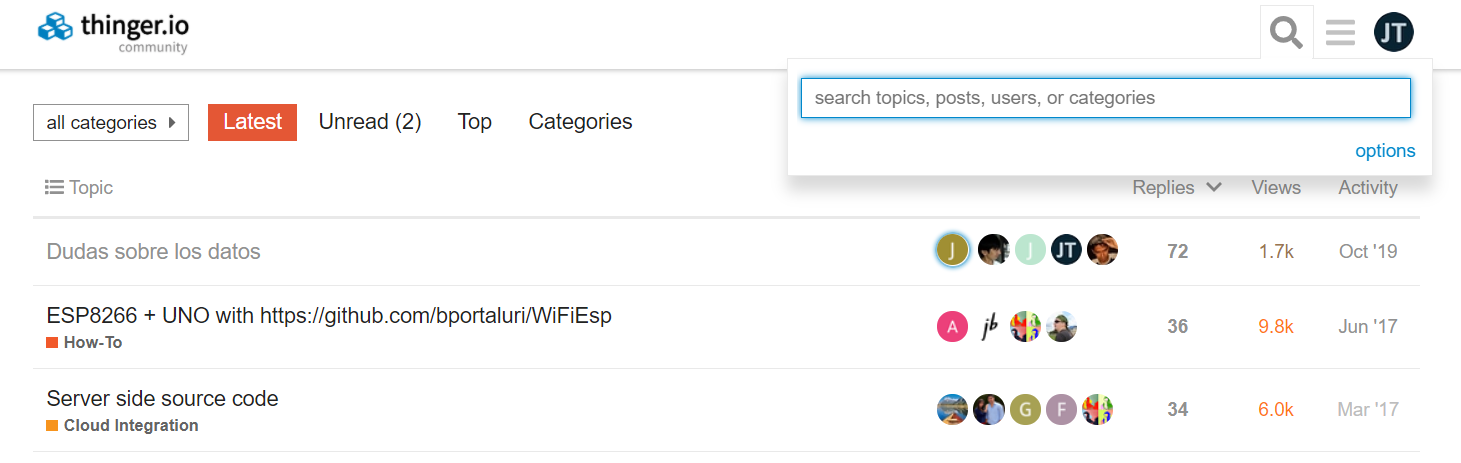
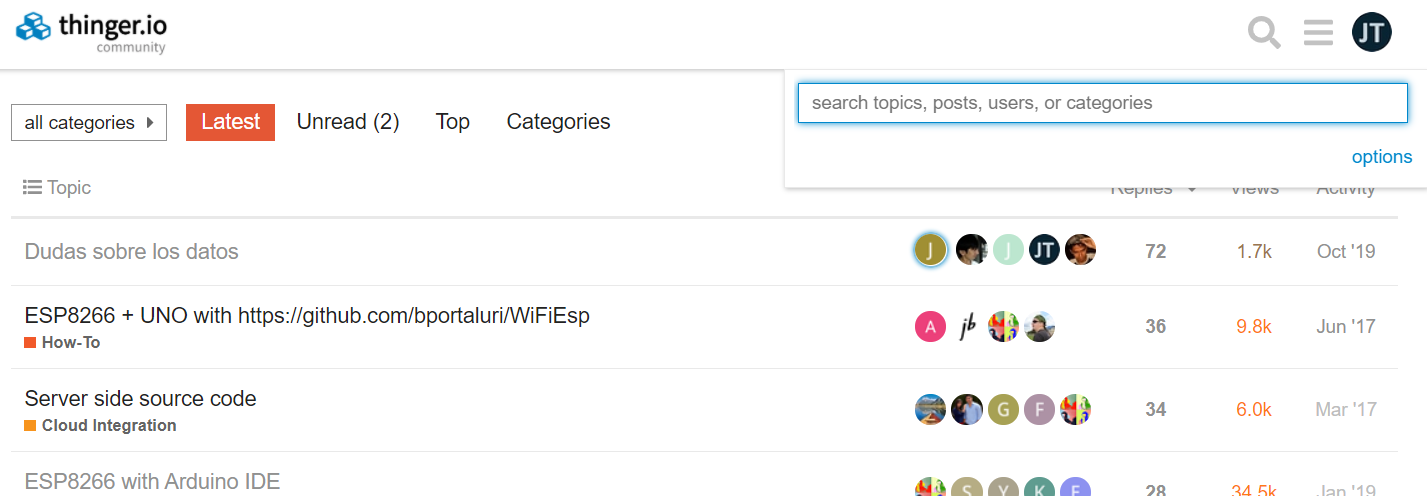
GitBook: [gh-pages] 42 pages and 2 assets modified

diff --git a/quick-sart/coding/good-practices-and-troubleshooting.md b/quick-sart/coding/good-practices-and-troubleshooting.md
@@ -9,7 +9,7 @@ description: >-
 
 ## Coding Good Practices
 
-* First of all, read the platform documentation, it is strongly recommended to use the example codes provided there when creating new firmwares.
+* First of all, read the platform documentation, it is strongly recommended to use the example codes provided there when creating new firmware.
 * Thinger resources definition code must be introduced in the `setup()` function or any other function that is executed just one time in the program source code.
 * `thing.handle()` instruction must be included in the `loop()` function or in the main recurrent execution function of the program source code.
 * Avoid using `delay()` or any other locking instructions when coding for IoT purposes. Using it will make your device losing the connection with the network, which will result in continuous reconnection processes. If the program requires timing functionalities, it is possible to use non-locking structures for example: 
@@ -21,8 +21,8 @@ if(millis()%5000==0){
 }
 ```
 
-* If an specific routine requires several time to be executed, including and additional `thing.handle()` instruction could be helpful to guarantee the connection. 
-* Avoid polling data. Thinger.io implements a resources subscription paradigm that allows the server taking the control of when does the devices send data, according a user defined sampling interval. However, there are some instructions such as `thing.call_endpoint` and `thing.write_bucket`, that has been implemented to send  asynchronous communications to the server. It is important to be careful when using these instructions in a non-controlled way or create polling situations that will decrease the efficiency of the infrastructure. Next example code shows how to properly call to an asynchronous call just when an event is detected by the device code:
+* If a specific routine requires several time to be executed, including and additional `thing.handle()` instruction could be helpful to guarantee the connection. 
+* Avoid polling data. Thinger.io implements a resources subscription paradigm that allows the server to take control of when does the devices send data, according to a user-defined sampling interval. However, there are some instructions such as `thing.call_endpoint` and `thing.write_bucket`, that has been implemented to send asynchronous communications to the server. It is important to be careful when using these instructions in a non-controlled way or create polling situations that will decrease the efficiency of the infrastructure. Next example code shows how to properly call to an asynchronous call just when an event is detected by the device code:
 
 ```text
 void loop(){
@@ -42,7 +42,7 @@ void loop(){
 ```
 
 * Use the **debug** mode when testing and prototyping to identify connection problems \(shee troubleshooting guidelines\)
-* Create consistent input resources using pson.is\_empty\(\) function. Every time Thinger server creates a new connection with any device, each resource code is executed with an empty Pson. To prevent this behavior making any runaway execution, it is useful to analyze the content of the Pson before allowing the resources to execute. The following example code implements the `pson.is_empty()` function and an auxiliar Pson to save the proper status of the resource \(arduino framework is being used\):
+* Create consistent input resources using Pson.is\_empty\(\) function. Every time Thinger server creates a new connection with any device, each resource code is executed with an empty Pson. To prevent this behavior making any runaway execution, it is useful to analyze the content of the Pson before allowing the resources to execute. The following example code implements the `pson.is_empty()` function and an auxiliary Pson to save the proper status of the resource \(Arduino framework is being used\):
 
 ```text
 pson aux;
@@ -67,8 +67,8 @@ aux=false;             //set an initial status for the aux pson
 
 | Problem | Source | Solution |
 | :--- | :--- | :--- |
-| program don't compile | errors on your code or incompatible libraries | try with basic source code example to check it is working before continue developing |
-| Example code don't compile | PCB bootloader version incompatible | Check the compiler output to find the problem or install and older version of the device bootloader.  |
+| program doesn't compile | errors on your code or incompatible libraries | try with basic source code example to check it is working before continue developing |
+| Example code don't compile | PCB bootloader version incompatible | Check the compiler output to find the problem or install an older version of the device bootloader.  |
 
 ## Connection Troubleshooting Guidelines
 
@@ -145,6 +145,7 @@ When this command is included, the program will print all the communication traz
         <ul>
           <li>Disable the secure TLS/SSL connection by pacing<code>#define _DISABLE_TLS_ </code>on
             the top of the sketch</li>
+          <li>Using MQTT try to test non SSL connection through 1883 port</li>
         </ul>
       </td>
     </tr>
@@ -182,7 +183,7 @@ If after following these instructions it was impossible to find a solution, we h
 
 It is a forum \([**accessible here**](https://community.thinger.io)\) created to provide developers a place to share projects, knowledges and doubts with other Thinger.io users. Actually is the best way to obtain fast and free assistance to development problems because most of the doubts have probably been asked and solved before by other developers. So the **first step is to use the search bar** to find a similar post:
 
-![](../../.gitbook/assets/image%20%28325%29.png)
+![](../../.gitbook/assets/image%20%28323%29.png)
 
 Making proper use of this resource means using the browser in order to find old topics related to the doubt before creating a new one, but if it is required, take in consideration:   
 
